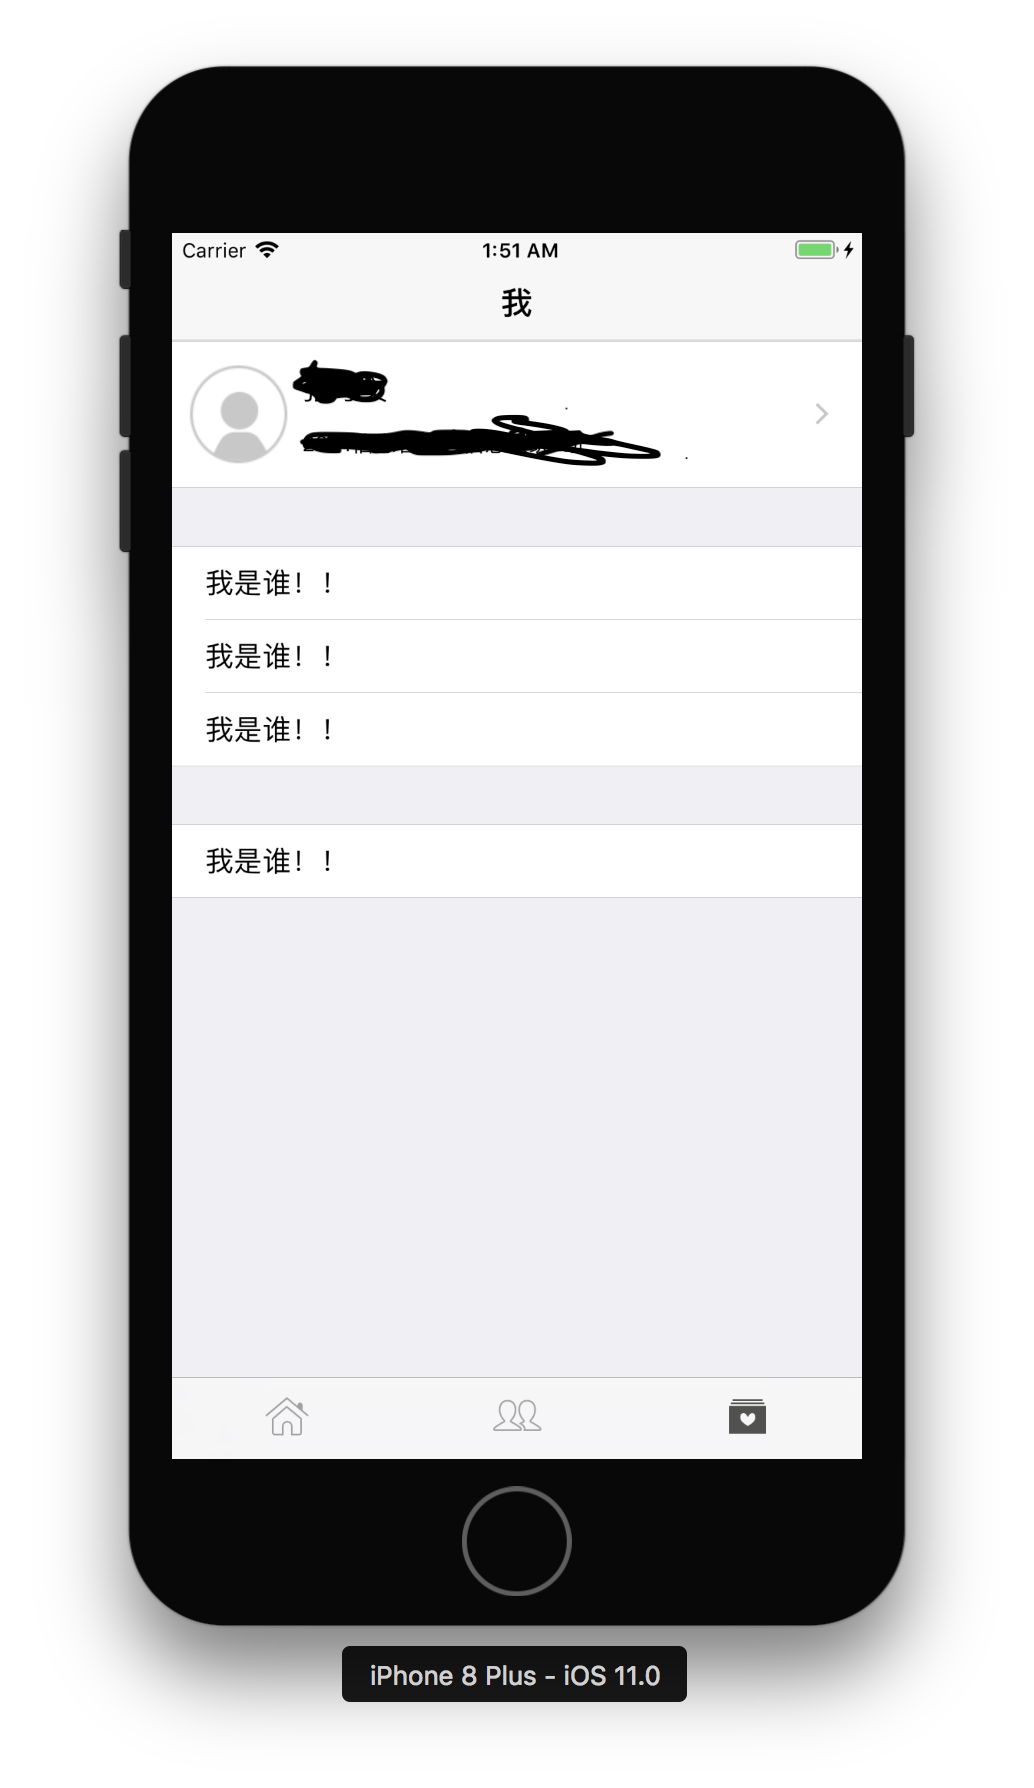
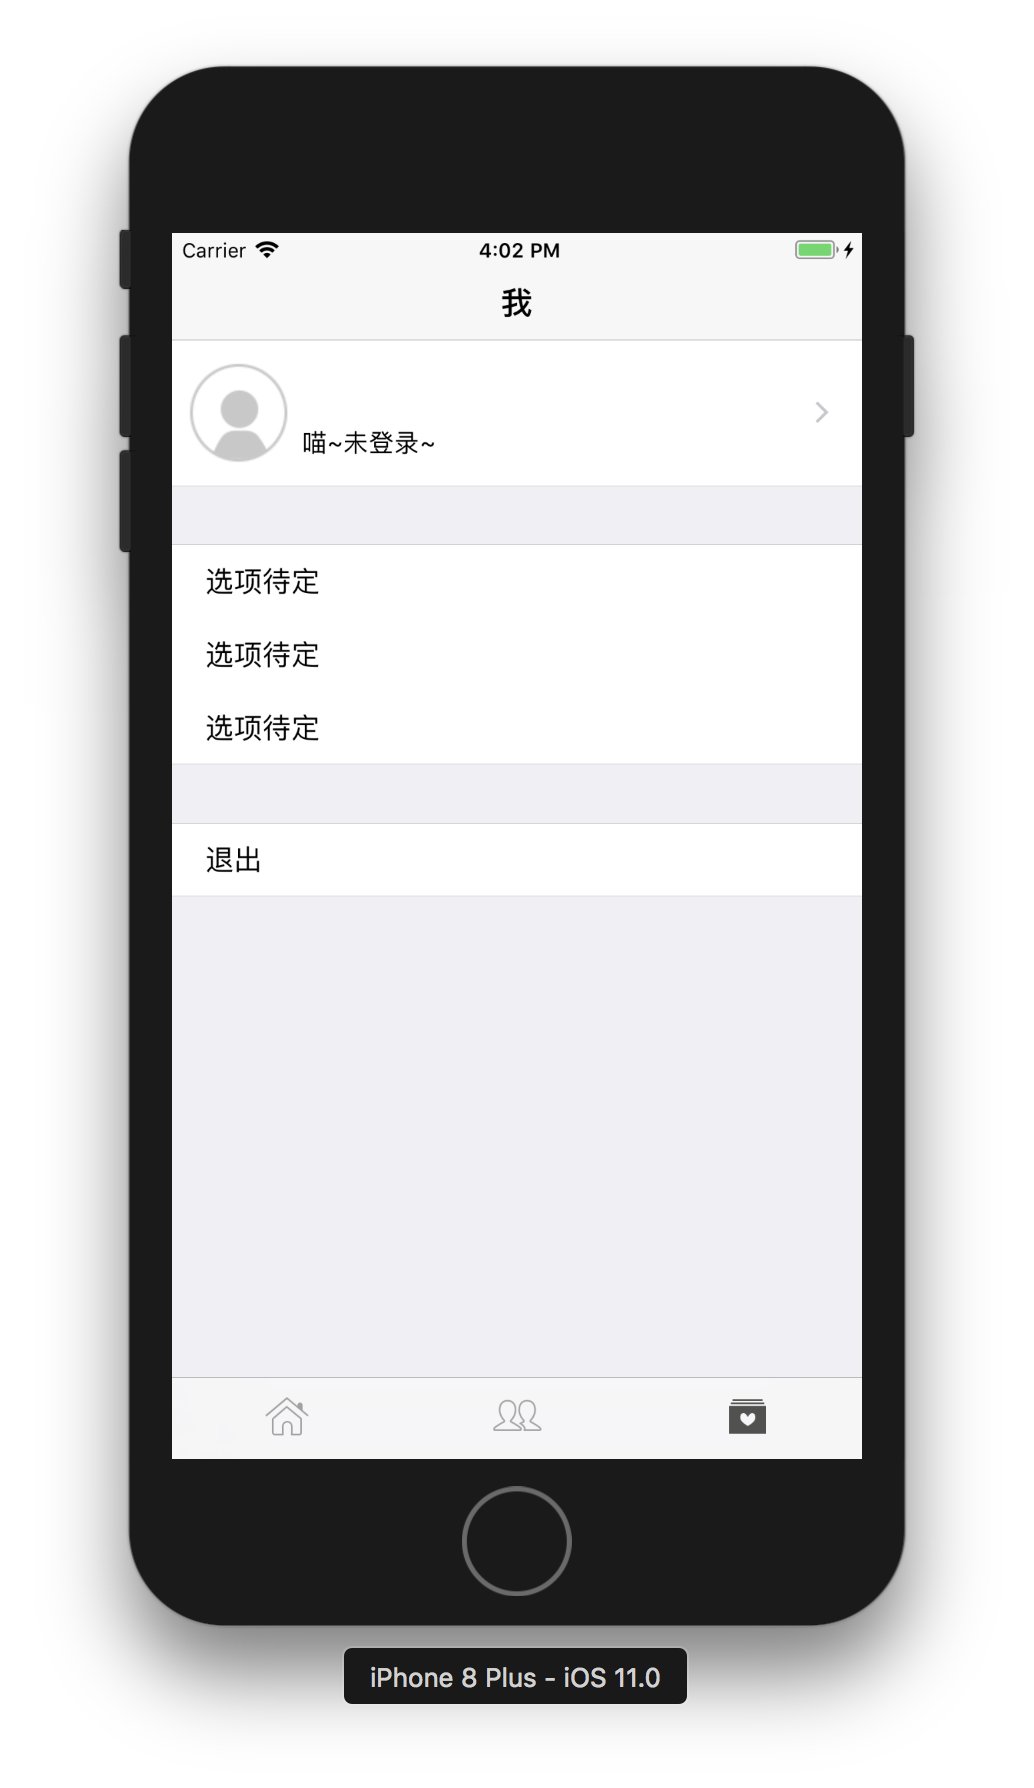
1.1.9

diff --git a/KWGdufe/Classes/Mine/Control/KWMineViewController.m b/KWGdufe/Classes/Mine/Control/KWMineViewController.m
@@ -128,7 +128,7 @@
         return cell;
     } if (indexPath.section == 2) {
         cell.textLabel.text = @"退出";
-    } else cell.textLabel.text = @"我是谁！！";
+    } else cell.textLabel.text = @"选项待定";
     return cell;
 }
 
